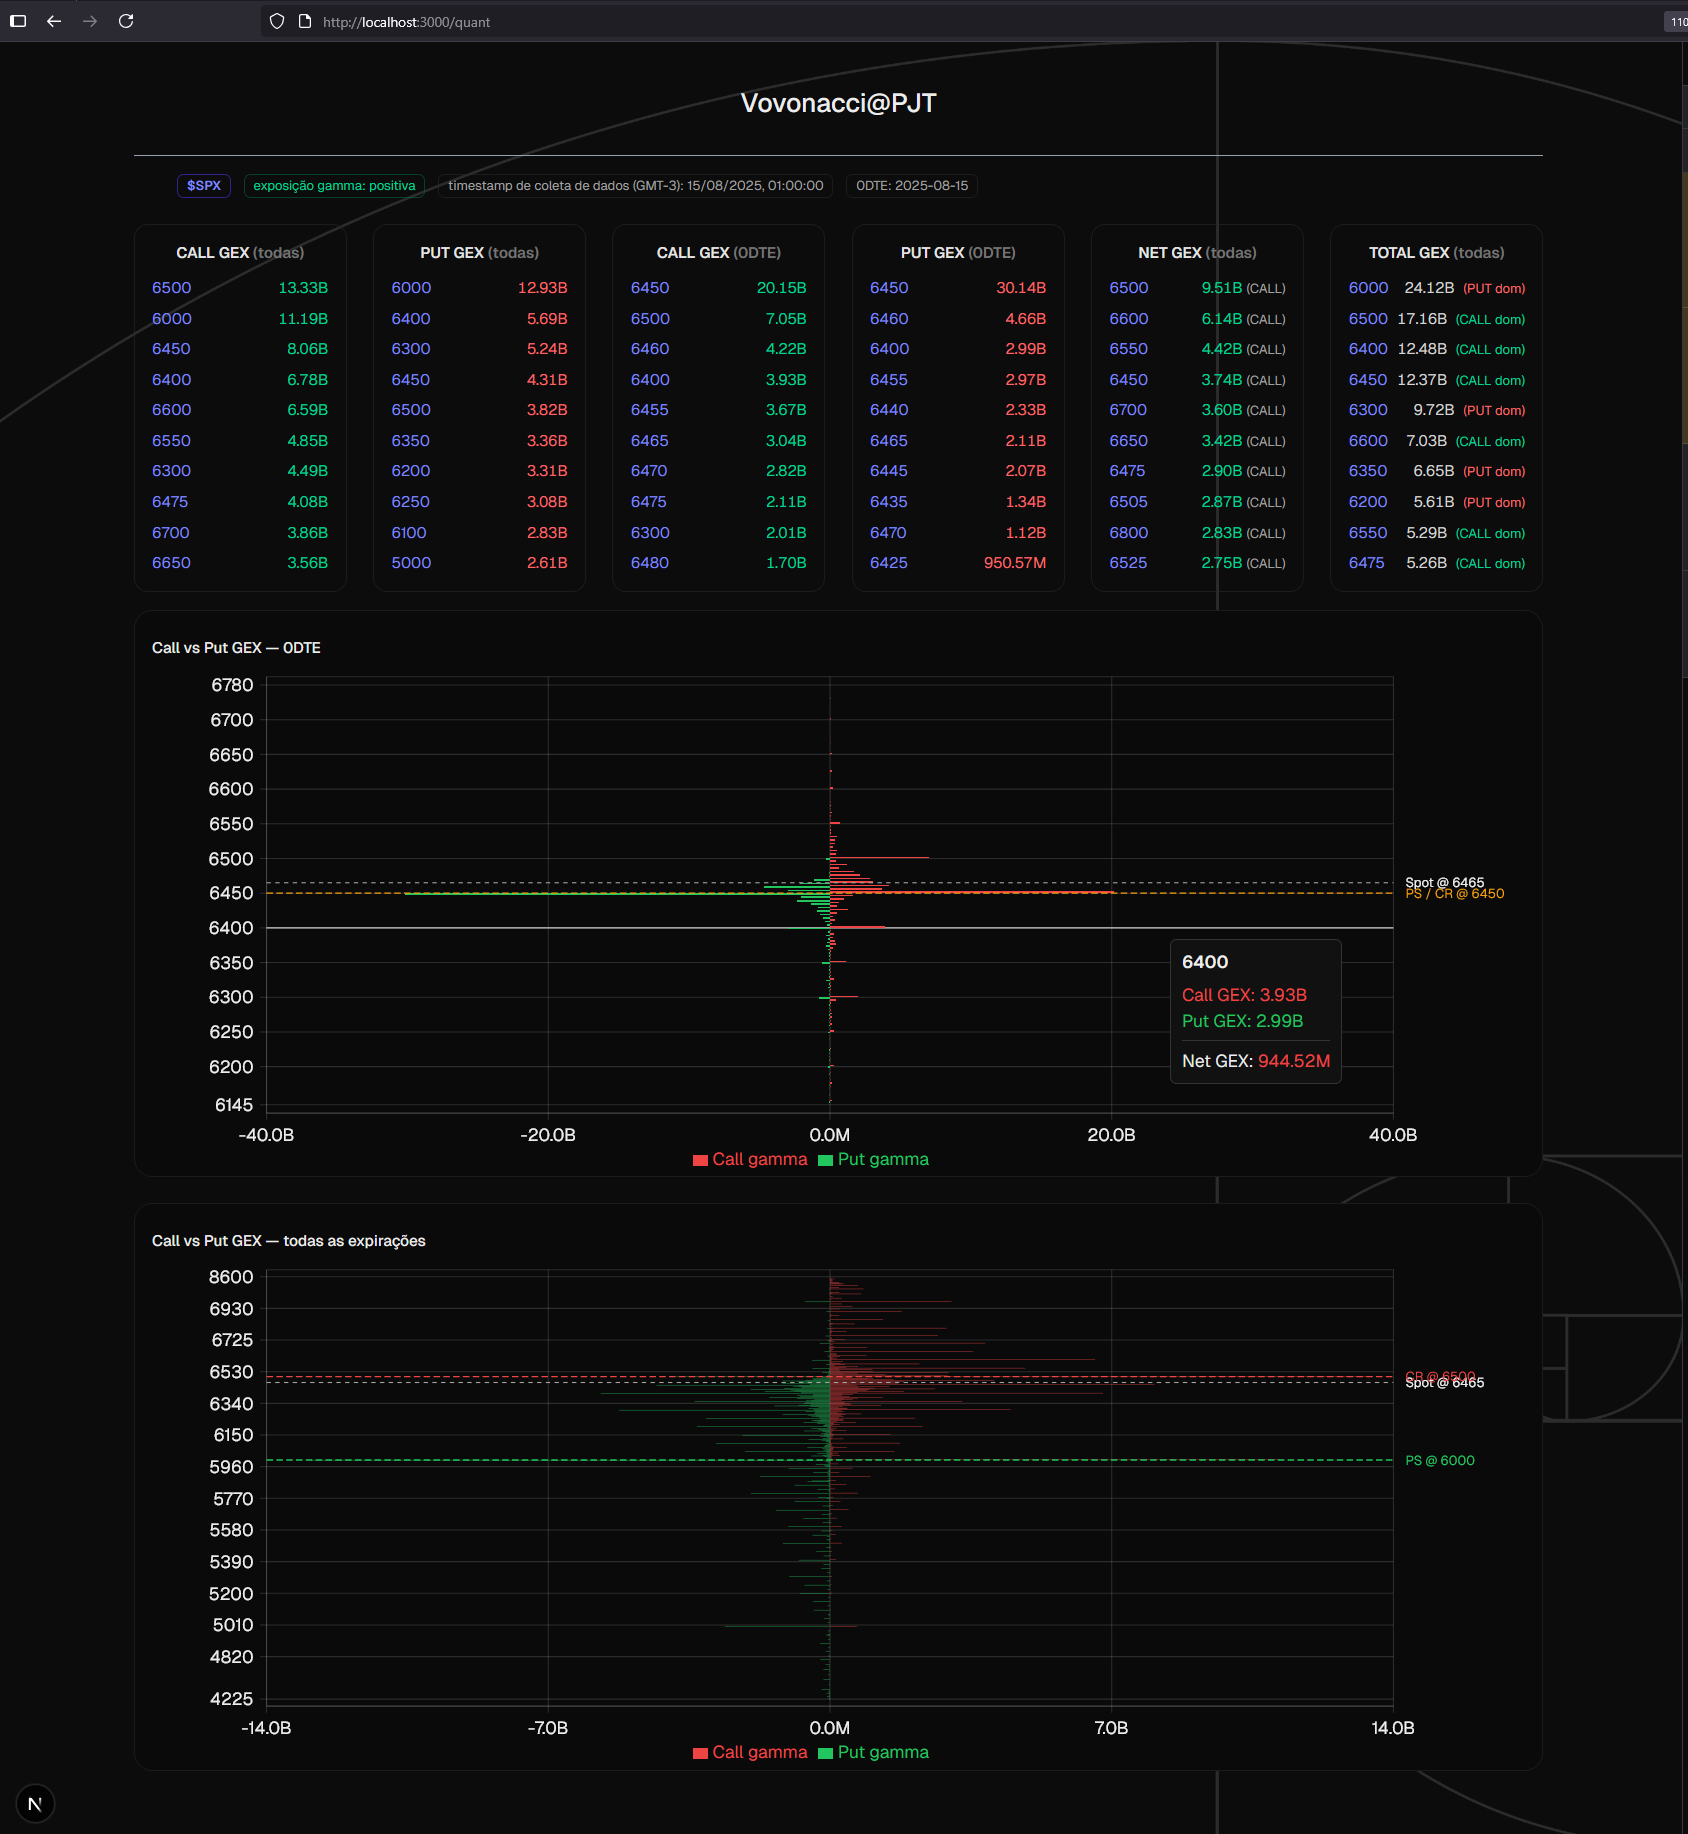
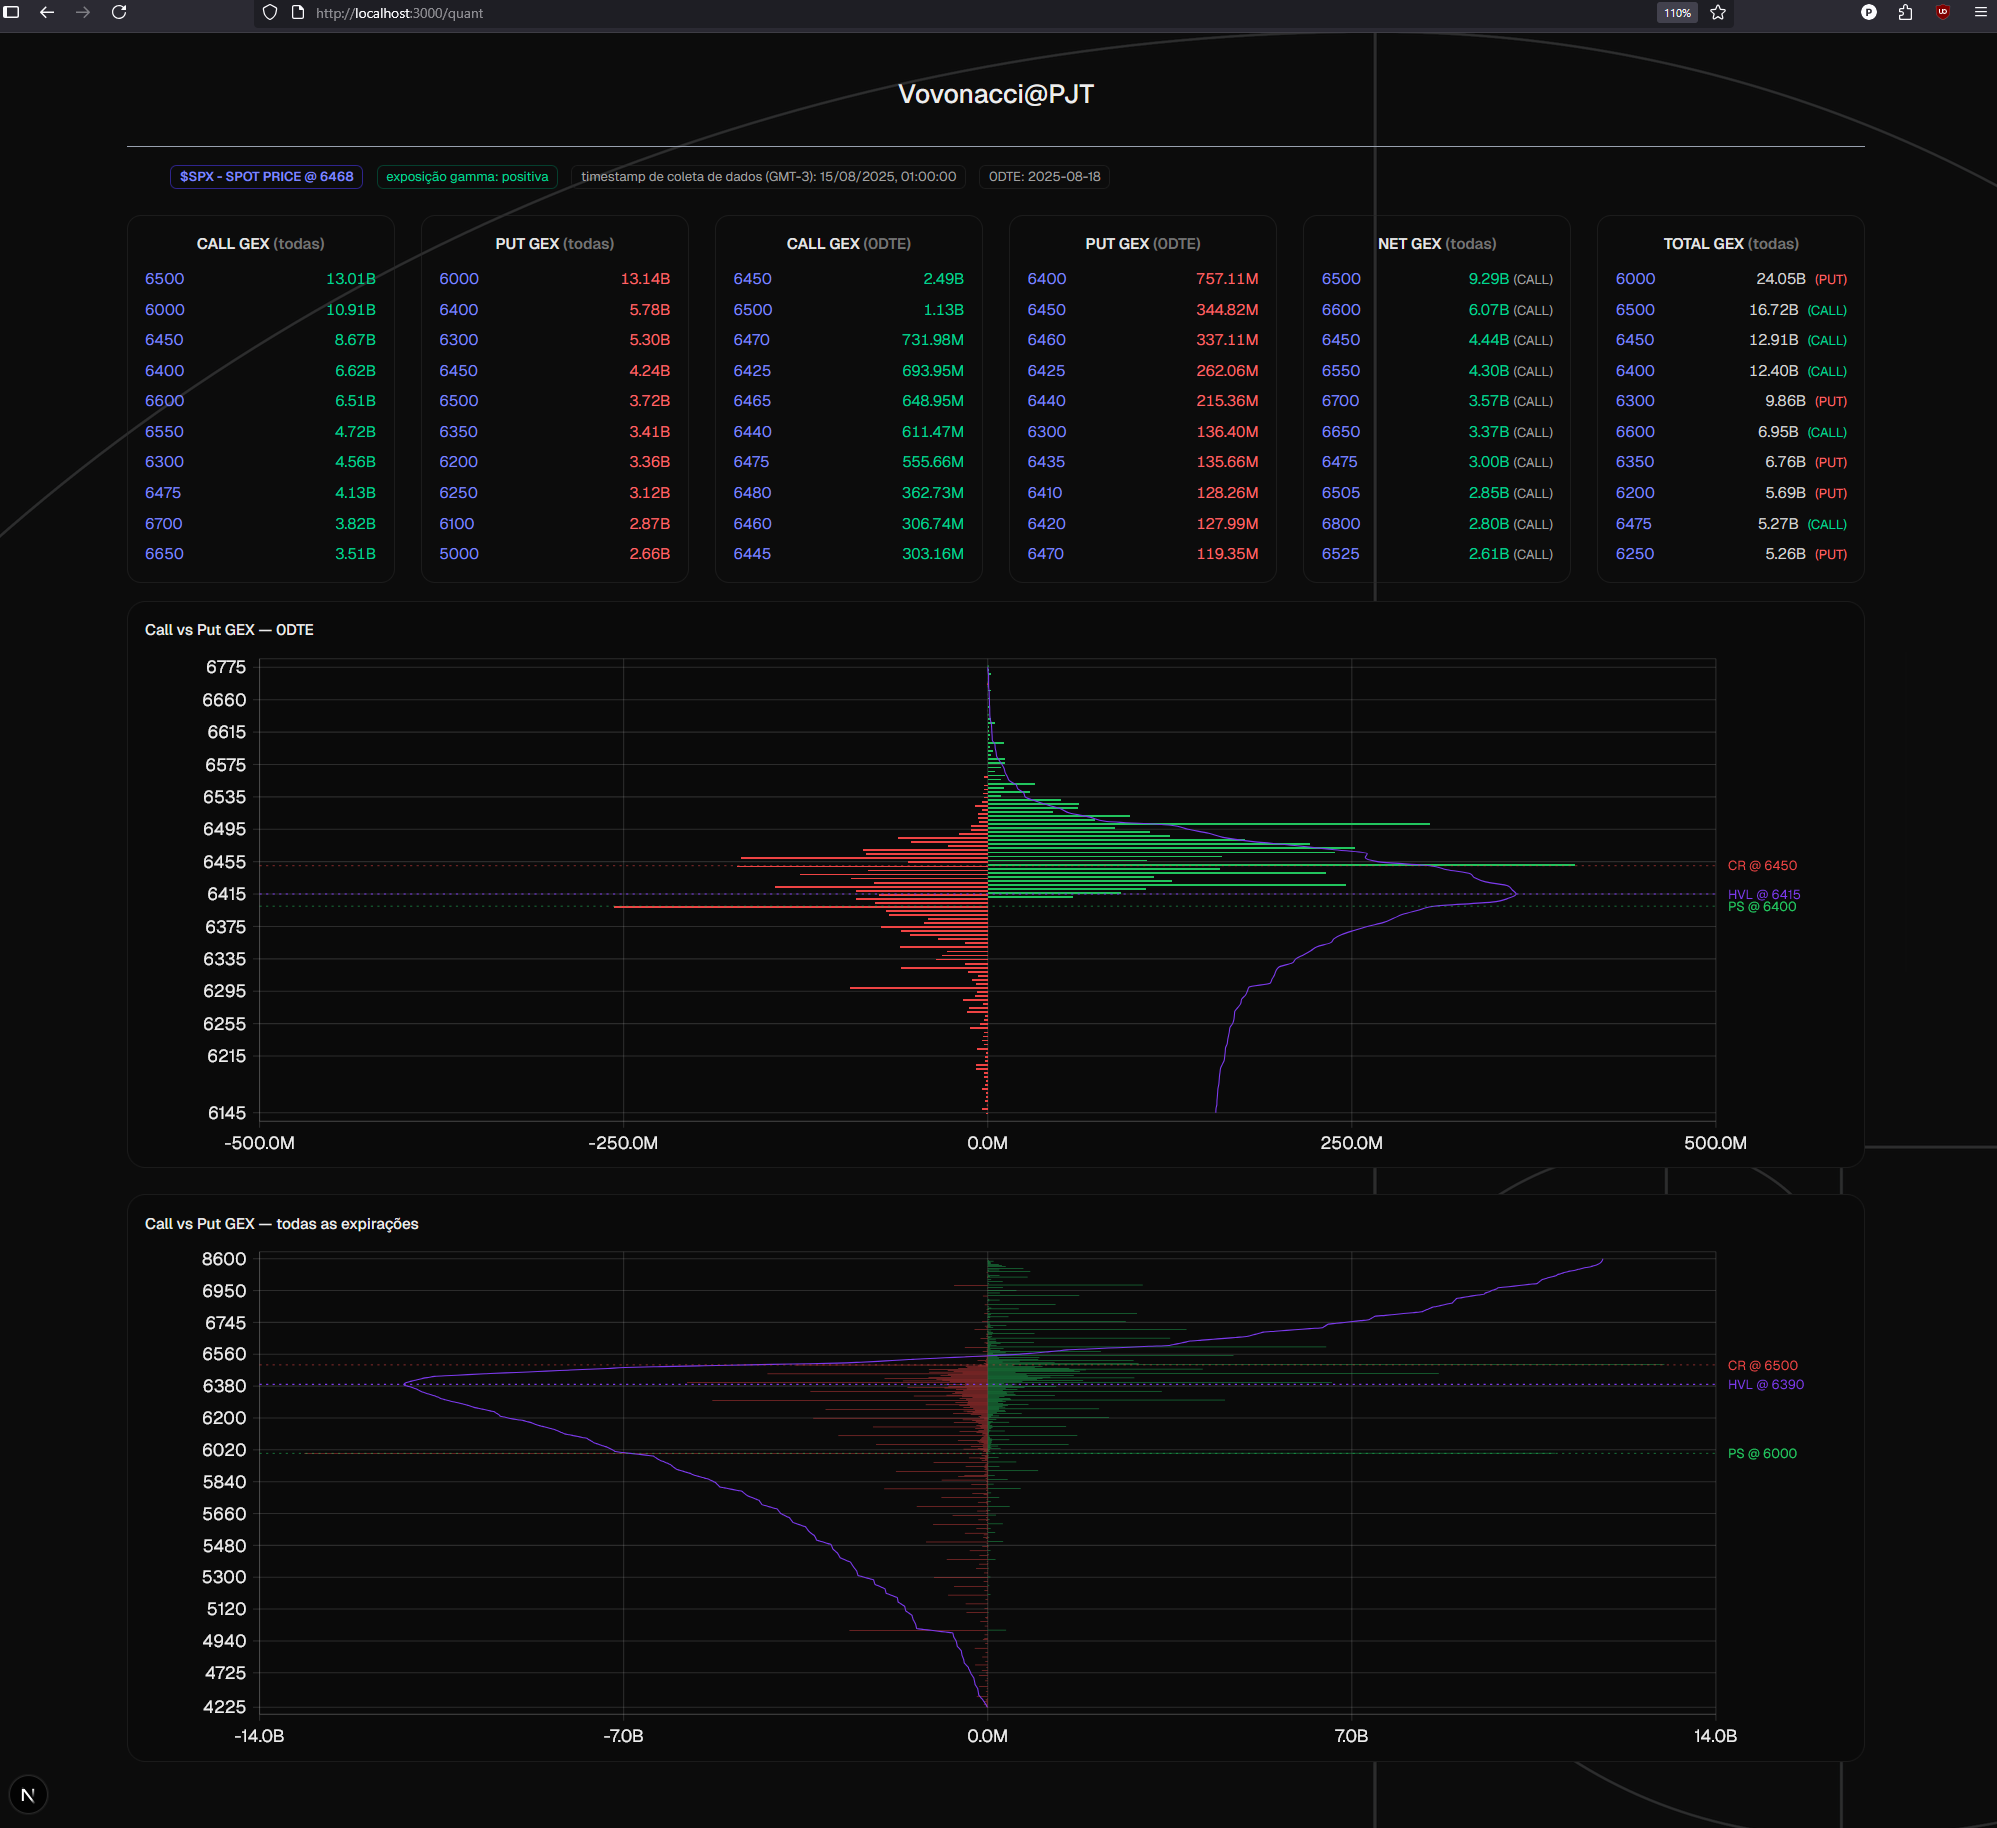
new spot price and image for readme

diff --git a/app/components/GexChart.tsx b/app/components/GexChart.tsx
@@ -290,7 +290,7 @@ export default function GexMassChart({
               <ReferenceLine
                 y={hvl}
                 stroke={purple}
-                strokeDasharray="6 3"
+                strokeDasharray="2 4"
                 strokeWidth={1}
                 label={labelProps(`HVL @ ${hvl}`, purple)}
               />

diff --git a/utils/spot-config.ts b/utils/spot-config.ts
@@ -1,4 +1,4 @@
-export const SPOT_DEFAULT = 6465;
+export const SPOT_DEFAULT = 6468;
 
 function envSpot(): number | undefined {
   const raw = process.env.NEXT_PUBLIC_SPOT_OVERRIDE;
